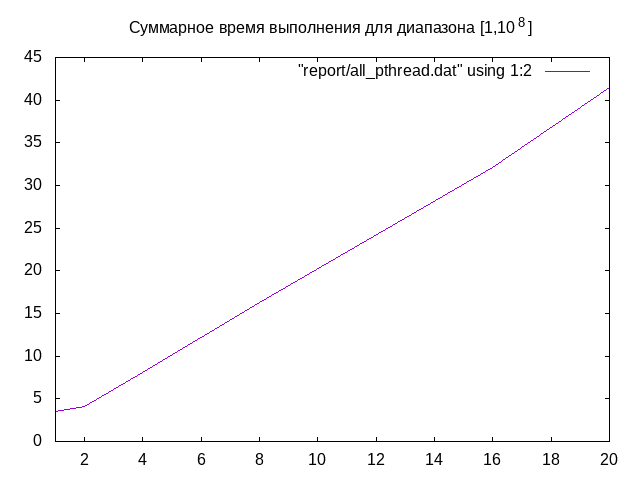
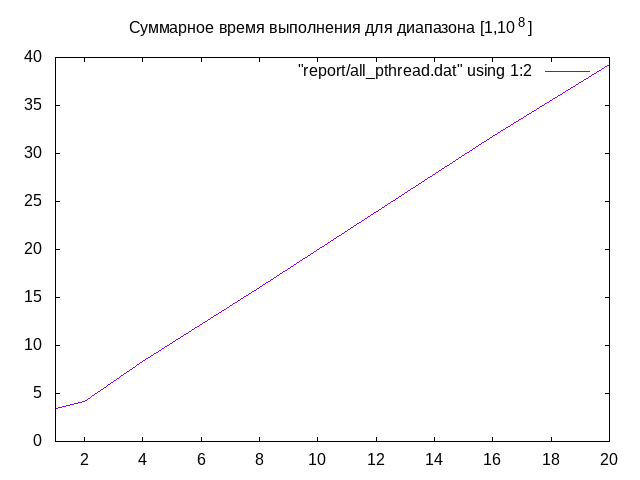
task3(pthreads)

diff --git a/src/primary.cpp b/src/primary.cpp
@@ -1,9 +1,9 @@
-#include <mpi.h>
 #include <cmath>
 #include <fstream>
-#include <pthread.h>
 #include <chrono>
 #include <algorithm>
+
+#include <pthread.h>
 
 #include "../inc/primary.h"
 
@@ -93,147 +93,11 @@ void Primary::fill(int index,int stop,int start)
         numbers[i] = NOT_PRIMARY;
 }
 
-vector<int> Primary::parallelFindPrimaries(string filename,string allName,string maxName)
-{
-    int rank, commSize;
-    vector<int> primaries;
-
-    MPI_Init(NULL, NULL);
-    MPI_Comm_rank(MPI_COMM_WORLD, &rank);
-    MPI_Comm_size(MPI_COMM_WORLD, &commSize);
-
-    int childStart = sqrt(last) > first ? sqrt(last) : first;
-    int childSize = commSize != 0 ? (last - childStart) / (commSize - 1) : 0;
-    
-    MPI_Status status;
-
-    if (rank == 0)
-    {
-        cout << endl;
-        double start = MPI_Wtime();
-        int l = commSize == 1 ? last : sqrt(last) + 1;
-
-        if (l < 4)
-        {
-            if (l <= 3)
-            {
-                primaries.push_back(2);
-                primaries.push_back(3);
-            } else
-            {
-                if (l <= 2)
-                    primaries.push_back(2);
-            }
-        }
-        else
-        {
-            primaries.push_back(2);
-            primaries.push_back(3);
-            fill(2, l);
-            fill(3, l);
-
-            for (int i = 4; i < l; i++)
-            {
-                if (numbers[i] == PRIMARY)
-                {
-                    primaries.push_back(i);
-                    fill(i, l);
-                }
-            }
-        }
-
-        int sz = primaries.size();
-
-        double stop = MPI_Wtime();
-
-        for (int i = 1; i < commSize; i++)
-            MPI_Send(toIntArr(primaries), primaries.size(), MPI_INT, i, 0, MPI_COMM_WORLD);
-
-        vector<double> time;
-        time.push_back(stop - start);
-        for (int i = 1; i < commSize; i++)
-        {
-            int *buffer = new int[childSize];
-            MPI_Recv(buffer, childSize, MPI_INT, i, 0, MPI_COMM_WORLD, &status);
-            vector<int> tmp = toVector(buffer, childSize);
-            for (auto e : tmp)
-            {
-                if (e != NOT_PRIMARY)
-                    primaries.push_back(e);
-            }
-            delete[] buffer;
-            tmp.clear();
-            double t = 0.0;
-            MPI_Recv(&t,1,MPI_DOUBLE,i,0,MPI_COMM_WORLD,&status);
-            time.push_back(t);
-        }
-
-        for (int i = 0; i < primaries.size(); i++)
-        {
-            if (primaries[i] < first)
-            {
-                primaries.erase(primaries.begin() + i);
-                i--;
-            }
-        }
-
-        ofstream all(allName,ios_base::app);
-        ofstream maximum(maxName ,ios_base::app);
-        all << commSize << "\t" << sum(time) << endl;
-        maximum << commSize << "\t" << findMax(time) << endl;
-
-        all.close();
-        maximum.close();
-        save(primaries,filename);
-        cout << "Количество простых чисел: " <<  primaries.size() << endl;
-    }
-    else
-    {
-
-        int n;
-        MPI_Probe(0, 0, MPI_COMM_WORLD, &status);
-        MPI_Get_count(&status, MPI_INT, &n);
-
-        int *arr = new int[n];
-
-        MPI_Recv(arr, n, MPI_INT, 0, 0, MPI_COMM_WORLD, &status);
-        double time = MPI_Wtime();
-        vector<int> pr = toVector(arr, n);
-
-        int start = childStart + 1 + (rank - 1) * childSize, stop = rank != commSize - 1 ? childStart + 1 + rank * childSize : last;
-
-        for (int i = 0; i < pr.size(); i++)
-            fill(pr[i], stop);
-
-        vector<int> childPrimaries(childSize, NOT_PRIMARY);
-
-        for (int i = start, j = 0; i < stop; j++, i++)
-        {
-            if (numbers[i] == PRIMARY)
-            {
-                if (i >= first)
-                    childPrimaries[j] = i;
-            }
-        }
-
-        delete[] arr;
-        pr.clear();
-        time = MPI_Wtime() - time;
-        MPI_Send(toIntArr(childPrimaries), childSize, MPI_INT, 0, 0, MPI_COMM_WORLD);
-        childPrimaries.clear();
-
-        MPI_Send(&time,1,MPI_DOUBLE,0,0,MPI_COMM_WORLD);
-    }
-    MPI_Finalize();
-
-    return primaries;
-}
-
 vector<int> Primary::pthreadFindPrimaries(string filename, string allName, string maxName,int threadNum)
 {
     vector<int> primaries;
     vector<double> time;
-    double start = MPI_Wtime();
+    double start = clock();
     int l = threadNum == 1 ? last : sqrt(last) + 1;
     if (l < 4)
     {
@@ -264,8 +128,8 @@ vector<int> Primary::pthreadFindPrimaries(string filename, string allName, strin
         }
     }
 
-    double stop = MPI_Wtime();
-    time.push_back(stop - start);
+    double stop = clock();
+    time.push_back((stop - start)/CLOCKS_PER_SEC);
 
     vector<pthread_t> pthreads(threadNum - 1);
 
@@ -312,7 +176,7 @@ vector<int> Primary::pthreadFindPrimaries(string filename, string allName, strin
 
 void* Primary::pthreadCount(void *res)
 {
-    double begin = MPI_Wtime();
+    double begin = clock();
     Result *result = (Result*)res;
     int last = result->last,first = result->first;
     int childStart = sqrt(last) > first ? sqrt(last) : first;
@@ -328,30 +192,10 @@ void* Primary::pthreadCount(void *res)
     for (int i = 0; i < pr.size(); i++)
         result->childPrimaries[i] = pr[i];
 
-    double end = MPI_Wtime();
-    result->threadTime = end - begin;
+    double end = clock();
+    result->threadTime = (end - begin)/CLOCKS_PER_SEC;
 
     return NULL;
-}
-
-int* Primary::toIntArr(const vector<int> &v)
-{
-    int *res = new int[v.size()];
-
-    for (int i = 0; i < v.size(); i++)
-        res[i] = v[i];
-
-    return res;
-}
-
-vector<int> Primary::toVector(int* arr,int n)
-{
-    vector<int> res(n);
-
-    for (int i = 0; i < n; i++)
-        res[i] = arr[i];
-
-    return res;
 }
 
 void Primary::save(vector<int> numbers, string filename)
@@ -361,13 +205,6 @@ void Primary::save(vector<int> numbers, string filename)
     for (auto e : numbers)
         file << e << " ";
     file.close();
-}
-
-void Primary::print(vector<int> numbers)
-{
-    for (auto e : numbers)
-        cout << e << " ";
-    cout << endl;
 }
 
 double Primary::findMax(vector<double> v)

diff --git a/inc/primary.h b/inc/primary.h
@@ -15,12 +15,6 @@ class Primary
 
     void fill(int index, int stop = -1, int start = -1);
 
-    int *toIntArr(const vector<int> &v);
-
-    vector<int> toVector(int* arr, int);
-
-    void print(vector<int> numbers);
-
     void save(vector<int> numbers, string filename);
 
     double findMax(vector<double> v);
@@ -42,8 +36,6 @@ public:
     Primary operator=(const Primary &another);
 
     vector<int> findPrimaries();
-
-    vector<int> parallelFindPrimaries(string filename,string allName,string maxName);
 
     vector<int> pthreadFindPrimaries(string filename,string allName,string maxName,int threadNum);
 };
